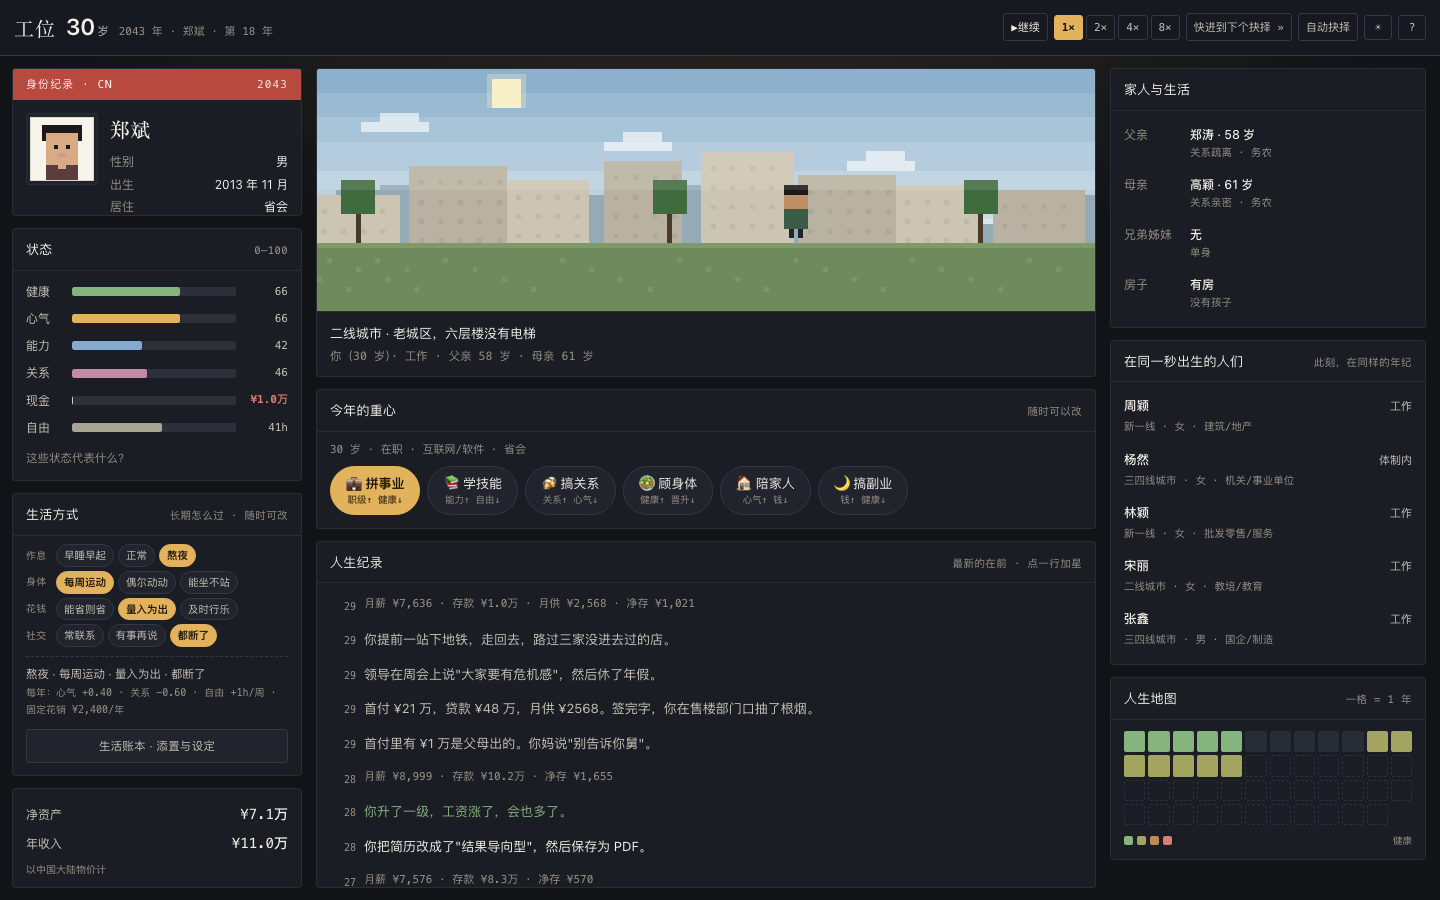
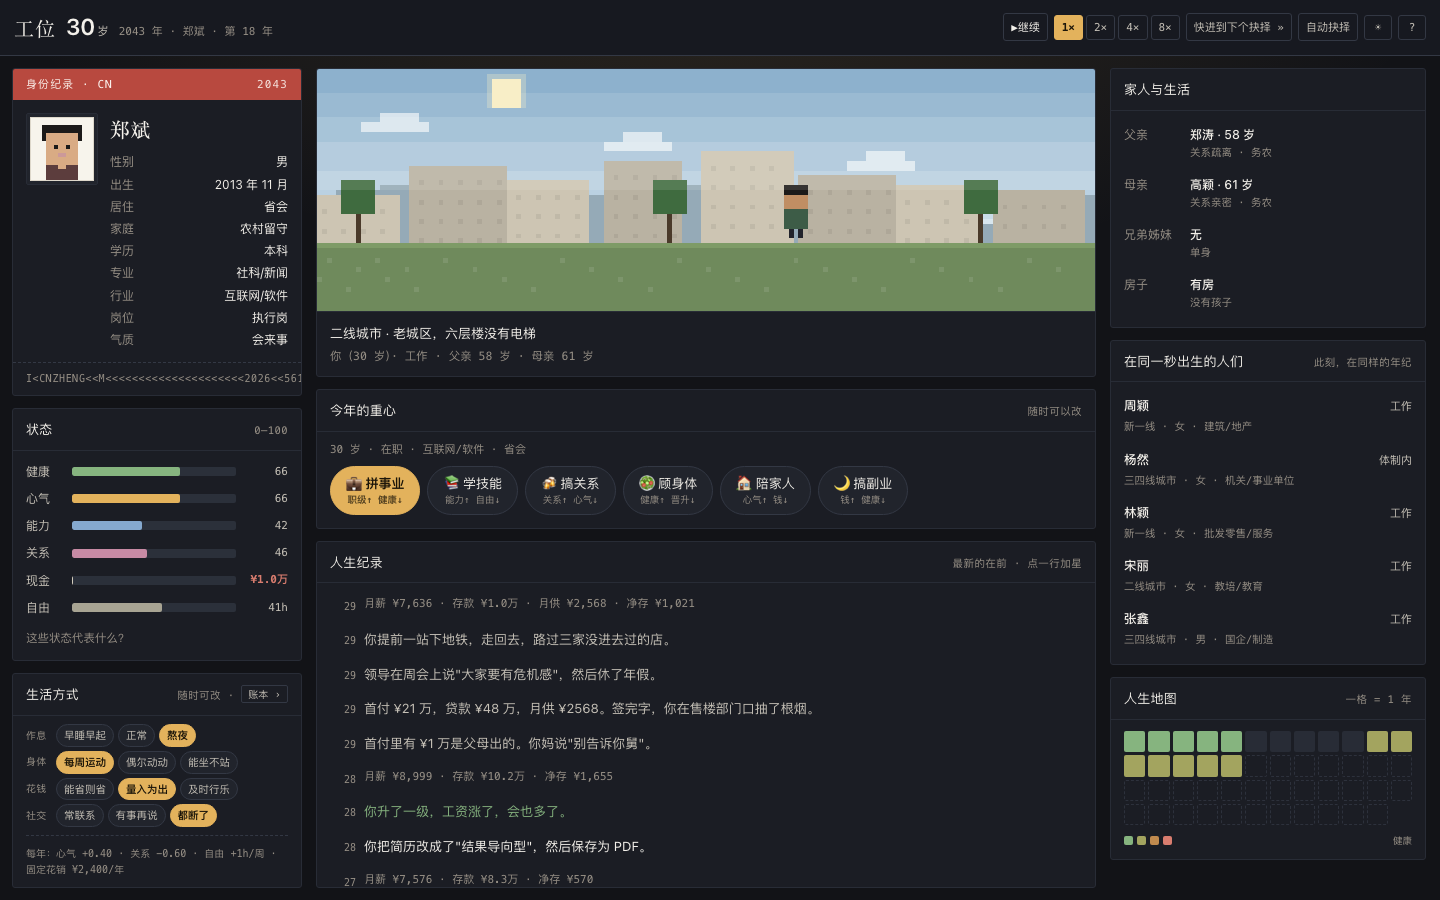
v0.7.1: 账本入口移到生活方式卡头，左栏卡片不再被压缩

Changed region(s): [[0.0, 0.2489, 0.2188, 0.9956], [0.1562, 0.2489, 0.2188, 0.3422]]

diff --git a/css/style.css b/css/style.css
@@ -169,6 +169,7 @@ body {
 .col { min-width: 0; display: flex; flex-direction: column; gap: 12px; overflow: hidden; padding-right: 2px; }
 .col-left, .col-right { overflow-y: auto; }
 .col-center > .card { flex: 0 0 auto; }
+.col-left > .card, .col-right > .card { flex: 0 0 auto; }
 .col::-webkit-scrollbar { width: 6px; }
 .col::-webkit-scrollbar-thumb { background: var(--line); border-radius: 3px; }
 .col::-webkit-scrollbar-track { background: transparent; }
@@ -237,20 +238,19 @@ body {
 }
 .lchip:hover { border-color: var(--accent); color: var(--text); }
 .lchip.on { background: var(--accent); border-color: var(--accent); color: var(--accent-ink); font-weight: 600; }
-.life-sum { margin: 9px 13px 0; padding: 8px 0 11px; border-top: 1px dashed var(--line); }
+.life-sum { margin: 8px 13px 0; padding: 7px 0 8px; border-top: 1px dashed var(--line); }
 .life-who { font-size: 11.5px; color: var(--text-2); line-height: 1.5; }
 .life-nums { font-size: 10px; color: var(--text-3); font-family: var(--mono); margin-top: 3px; line-height: 1.65; }
 
 
 /* ---------------- 生活账本（弹层） */
-.shop-open {
-  display: block; width: calc(100% - 26px); margin: 0 13px 12px;
-  appearance: none; cursor: pointer; border: 1px solid var(--line); background: var(--surface-2);
-  color: var(--text-2); border-radius: 3px; padding: 8px 10px; font-family: var(--sans);
-  font-size: 11.5px; letter-spacing: .02em; transition: .15s; text-align: center;
+.card-head .mini {
+  appearance: none; cursor: pointer; border: 1px solid var(--line); background: transparent;
+  color: var(--text-2); border-radius: 2px; padding: 1px 6px; font-family: var(--mono);
+  font-size: 10px; letter-spacing: .02em; transition: .14s; vertical-align: 1px;
 }
-.shop-open:hover:not(:disabled) { border-color: var(--accent); color: var(--text); }
-.shop-open:disabled { opacity: .5; cursor: not-allowed; }
+.card-head .mini:hover:not(:disabled) { border-color: var(--accent); color: var(--accent); }
+.card-head .mini:disabled { opacity: .45; cursor: not-allowed; }
 .shop-g {
   display: flex; justify-content: space-between; align-items: baseline;
   margin: 18px 0 2px; padding-bottom: 5px; border-bottom: 1px solid var(--line);

diff --git a/js/ui.js b/js/ui.js
@@ -525,8 +525,7 @@
     if (t.freedom) parts.push('自由 ' + lifeSign(t.freedom) + 'h/周');
     if (t.misc) parts.push('杂项花销 ' + lifeSign(t.misc * 100, '%'));
     if (t.cash) parts.push('固定花销 ' + fmtMoney(-t.cash) + '/年');
-    const who = $('#life-who'), nums = $('#life-nums');
-    if (who) who.textContent = L.order.map(function (dim) { return E.lifeOption(S, dim).name; }).join(' · ');
+    const nums = $('#life-nums');
     if (nums) nums.textContent = parts.length ? '每年：' + parts.join(' · ') : '每年：不增不减，随波逐流';
   }
 
@@ -559,7 +558,8 @@
     if (!b || !S) return;
     const locked = S.age < 18;
     b.disabled = locked;
-    b.textContent = locked ? '18 岁以后才能自己决定怎么花钱' : '生活账本 · 添置与设定';
+    b.textContent = locked ? '账本（18 岁）' : '账本 ›';
+    b.title = locked ? '18 岁以后才能自己决定怎么花钱' : '生活账本 · 添置与设定';
   }
 
   function renderShop() {

diff --git a/index.html b/index.html
@@ -102,13 +102,11 @@
         </section>
 
         <section class="card lifecard">
-          <div class="card-head">生活方式 <em>长期怎么过 · 随时可改</em></div>
+          <div class="card-head">生活方式 <em>随时可改 · <button id="btn-shop" class="mini" type="button" title="生活账本 · 添置与设定">账本 ›</button></em></div>
           <div class="life-rows" id="life-rows"></div>
           <div class="life-sum">
-            <div class="life-who" id="life-who">—</div>
             <div class="life-nums" id="life-nums">—</div>
           </div>
-          <button id="btn-shop" class="shop-open" type="button">生活账本 · 添置与设定</button>
         </section>
 
         <section class="card finance">
